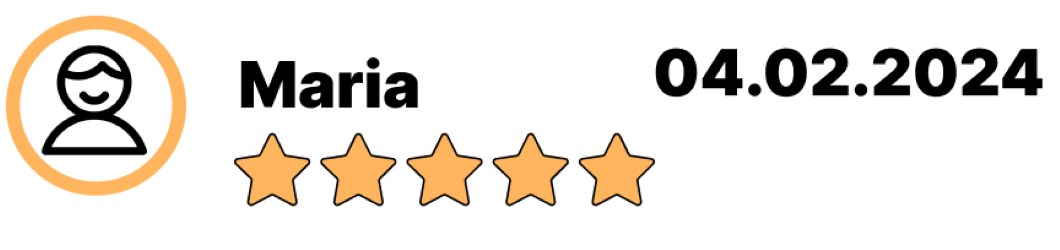
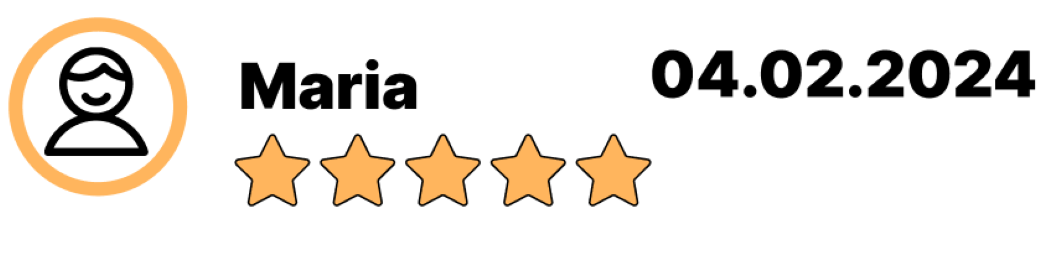
improvements with flex and grid

diff --git a/css/style.css b/css/style.css
@@ -14,6 +14,10 @@ body {
     background-color: #FFB55D;
     border-color: #101010;
     min-height: 64px;
+    display: flex;
+    justify-content: space-between;
+    align-items: center;
+    flex-wrap: wrap
 }
 
 .page-navigation li {
@@ -23,10 +27,13 @@ body {
 
 .page-navigation .right-side{
     float: right;
+    background-color: #FFB55D;
+    margin-left: auto;
 }
 
 .page-navigation .left-side{
     float: left;
+    background-color: #FFB55D;
 }
 
 .page-navigation .left-side li:hover {
@@ -64,6 +71,7 @@ body {
 /* Welcome block */
 
 .welcome-container {
+    position: relative;
     width: 100%;
 }
 
@@ -77,13 +85,15 @@ body {
 .welcome-text-block {
     position: absolute;
     top: 0;
-    height: 450px;
-    width: 700px;
+    right: 0;
+    height: 500px;
+    width: 90%;
+    max-width: 750px;
     right: 0;
     background-color: #FFEED3;
     padding: 10px;
-    margin-right: 50px;
-    margin-top: 150px;
+    margin-right: 20px;
+    margin-top: 20px;
     border-radius: 10px;
 }
 
@@ -130,6 +140,7 @@ body {
 
 .products-area {
     display: flex;
+    flex-wrap: wrap;
     justify-content: center;
     align-items: flex-start;
 }
@@ -139,6 +150,7 @@ body {
     height: 300px;
     text-align: center;
     margin: 0 10px;
+    margin-bottom: 60px;
 }
 
 .products-area-block img {
@@ -182,14 +194,16 @@ body {
     display: flex;
     justify-content: center;
     align-items: flex-start;
+    flex-wrap: wrap;
+    padding-bottom: 20px;   
 }
 
 .advantages-block {
     width: 200px;
     height: 180px;
     text-align: center;
-    margin: 0 20px;
-    margin-top: 20px;
+    margin: 20px;
+    margin-bottom: 70px;
 }
 
 .advantages-block img {
@@ -235,6 +249,7 @@ body {
     margin: 0;
     display: flex;
     align-items: center;
+    white-space: nowrap;
 
     top: 50%;
     left: 50%;
@@ -258,6 +273,7 @@ body {
     flex-wrap: wrap;
     justify-content: center;
     max-width: 900px;
+    margin: 80px 15px 15px 15px;
 }
 
 .products-block {
@@ -265,7 +281,8 @@ body {
     width: 250px;
     height: 250px;
     text-align: center;
-    margin: 80px 15px 15px 15px;
+    margin: 15px;
+    margin-bottom: 120px;
 }
 
 .products-block img {
@@ -327,10 +344,11 @@ body {
     justify-content: center;
     align-items: flex-start;
     margin-top: -60px;
+    padding: 70px;
 }
 
 .categories-container {
-    margin-top: 30px;
+    margin-top: -20px;
     display: flex;
     flex-wrap: wrap;
     justify-content: center;
@@ -408,7 +426,6 @@ body {
 
 .reviews-container {
     margin-top: 30px;
-    display: flex;
     flex-wrap: wrap;
     justify-content: center;
     max-width: 1500px;
@@ -420,6 +437,17 @@ body {
     height: 150px;
     text-align: center;
     margin: 10px 20px 15px 11px;
+}
+
+@media (max-width: 1200px) {
+    .reviews-slider {
+        flex-direction: column;
+        align-items: center;
+        width: 100%;
+    }
+    .reviews-block {
+        margin: 10px -50px 140px 11px;
+    }
 }
 
 .reviews-block img {
@@ -453,6 +481,7 @@ body {
     margin-top: 0px;
     clear: both;
     display: flex;
+    flex-wrap: wrap;
 }
 
 .footer-left-side{
@@ -469,20 +498,29 @@ body {
 }
 
 .footer-right-side{
-    display: flex;
-    flex: 2;
-    justify-content: space-around;
-    margin-top: -70px;
+    display: grid;
+    gap: 50px;
+    grid-template-columns: repeat(auto-fit, minmax(200px, 1fr));
+    max-width: 95% !important;
+    margin-top: -20px;
 }
+
+.footer-block{
+    width: 100%;
+}
+
+
 
 .footer-right-side h2 {
     font-size: 30px;
     color: #545454;
+    margin-bottom: 20px;
 }
 
 .footer-right-side a {
     text-decoration: none;
     color:#101010;
+    margin-bottom: 20px;
 }
 
 .footer-right-side p {

diff --git a/index.html b/index.html
@@ -10,19 +10,20 @@
 
 <body>
     <header class="page-navigation">
-        <ul class="right-side" style="margin: 0;">
-            <li><a href="">Головна</a></li>
-            <li><a href="">Каталог</a></li>
-            <li><a href="">Контакти</a></li>
-            <li><a href="">Про нас</a></li>
-            <li><a style="padding: 0 10px;"><img src="img/cart1.png" alt="cart img"></a></li>
-        </ul>
 
         <ul class="left-side" style="margin: 0;">
             <li><a style="margin-left: -15px;"><img src="img/logos1.png" alt="logo1 img"></a></li>
             <li>
                 <h1 class="h1-for-logo">FurniFesta</h1>
             </li>
+        </ul>
+
+        <ul class="right-side" style="margin: 0;">
+            <li><a href="">Головна</a></li>
+            <li><a href="">Каталог</a></li>
+            <li><a href="">Контакти</a></li>
+            <li><a href="">Про нас</a></li>
+            <li><a style="padding: 0 10px;"><img src="img/cart1.png" alt="cart img"></a></li>
         </ul>
 
     </header>
@@ -186,7 +187,7 @@
 
         <div class="dividing-line" style="margin-top: -20px;">
             <hr>
-            <h1 style="left: 20%;">За категоріями</h1>
+            <h1 style="left: 35%; ">За категоріями</h1>
         </div>
 
         <div class="categories">
@@ -268,9 +269,9 @@
 
         <!-- Reviews block -->
 
-        <div class="dividing-line" style="margin-top: -20px;">
+        <div class="dividing-line" style="margin-top: -10px;">
             <hr>
-            <h1 style="left: 20%;">Останні Відгуки</h1>
+            <h1 style="left: 35%;">Останні Відгуки</h1>
         </div>
 
         <div class="reviews">
@@ -308,19 +309,19 @@
             </div>
 
             <div class="footer-right-side">
-                <div>
+                <div class="footer-block">
                     <h2>Посилання</h2>
                     <p><a href="">Головна</a></p>
                     <p><a href="">Каталог</a></p>
                     <p><a href="">Контакти</a></p>
                     <p><a href="">Про нас</a></p>
                 </div>
-                <div>
+                <div class="footer-block">
                     <h2>Слідкуй на</h2>
                     <p><a href="">Facebook</a></p>
                     <p><a href="">Instagram</a></p>
                 </div>
-                <div>
+                <div class="footer-block">
                     <h2>Сповіщення</h2>
                     <form>
                         <input class="for-email" type="text" id="email" name="email" placeholder="Введіть Email">
